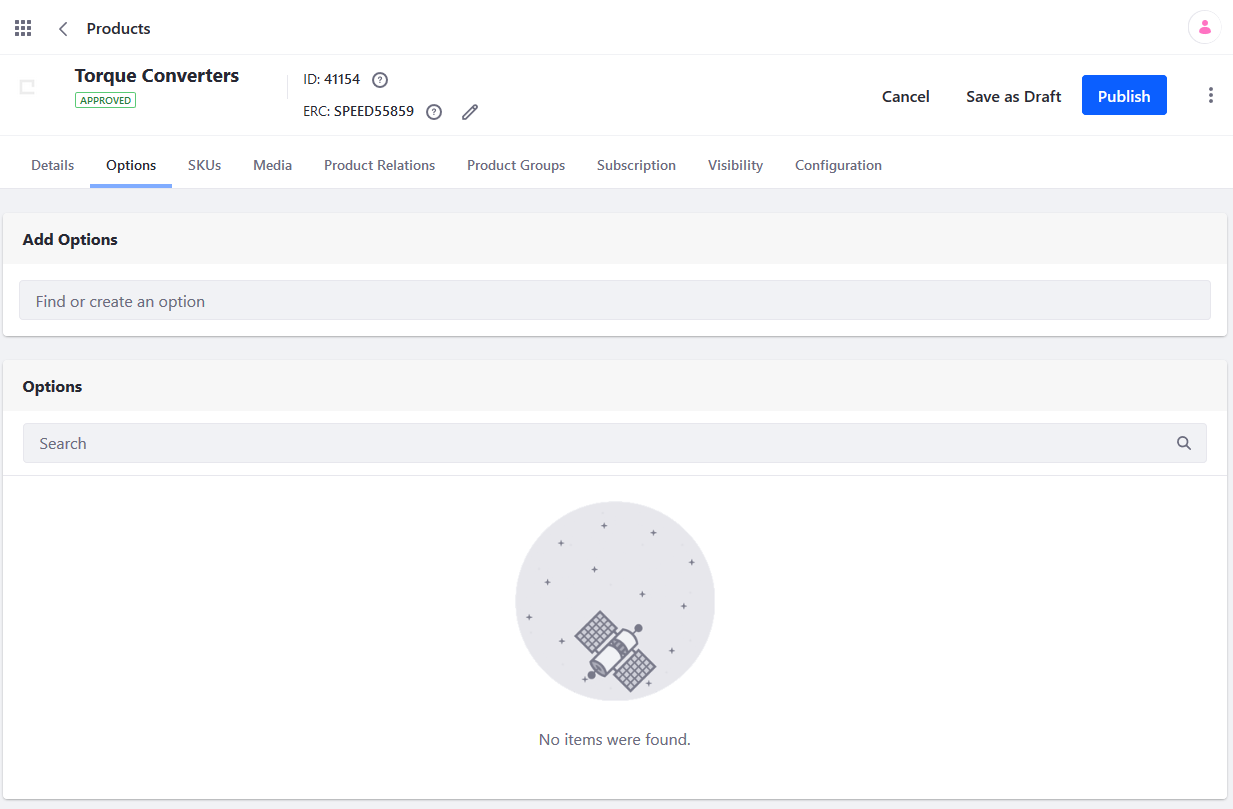
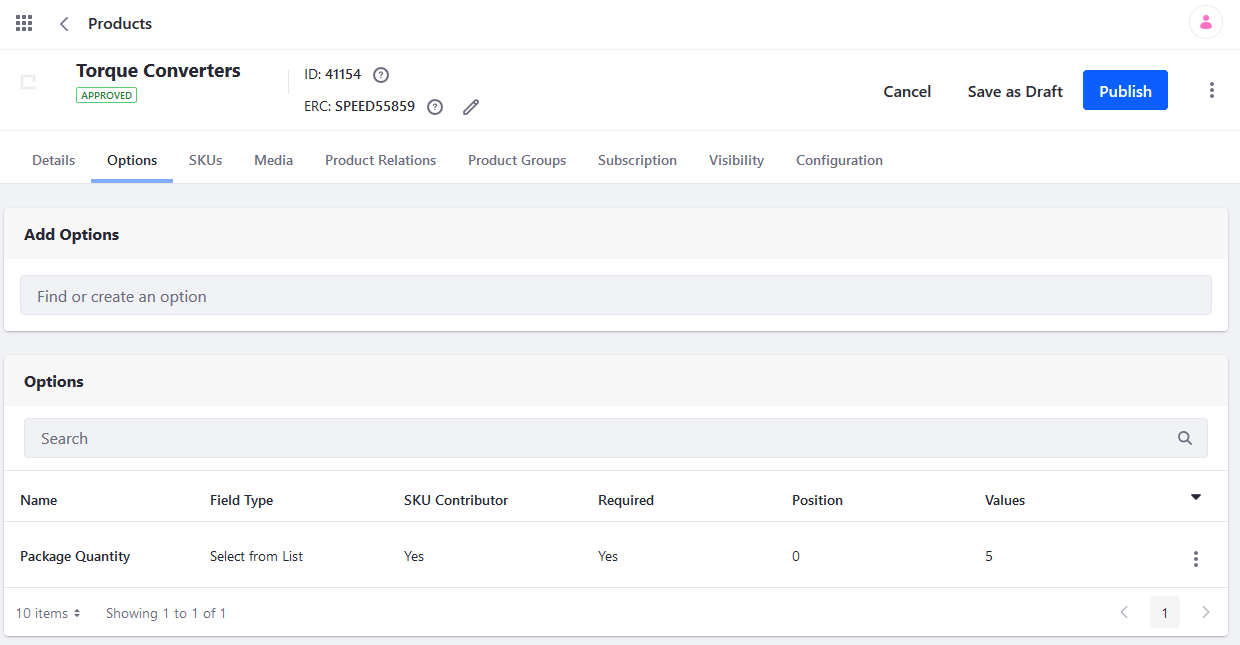
LRDOCS-9184 fixes old images for Product Options article

diff --git a/docs/commerce/2.x/en/managing-a-catalog/creating-and-managing-products/products/customizing-your-product-with-product-options.md b/docs/commerce/2.x/en/managing-a-catalog/creating-and-managing-products/products/customizing-your-product-with-product-options.md
@@ -125,7 +125,7 @@ Once an Option is applied to a Product, you can access additional configuration 
 ```
 
 ## Commerce 2.1 and Below
-<!-- FIX IMAGES -->
+
 ### Creating an Option Template
 
 To create an option template:
@@ -142,7 +142,7 @@ To create an option template:
     * **SKU Contributor:** No
     * **Key**: (automatically generated)
 
-        ![Option Template](./customizing-your-product-with-product-options/images/01.png)
+        ![Option Template](./customizing-your-product-with-product-options/images/06.png)
 
 1. Click _Save_.
 
@@ -169,7 +169,7 @@ To add multiple Option Values:
     * **Priority:** 1.0
     * **Key:** (autogenerated from the _Name_ field)
 
-        ![Adding option values](./customizing-your-product-with-product-options/images/02.png)
+        ![Adding option values](./customizing-your-product-with-product-options/images/07.png)
 
 1. Click _Save_.
 
@@ -184,19 +184,19 @@ To apply an option template to a product:
 1. Go to the _Global Applications_ → _Commerce_ → _Products_.
 1. Click on any product listed there. For example, if the Minium accelerator was used to create the site, one sample product is the _Torque Converters_.
 
-    ![Select a product to add a Product Option.](./customizing-your-product-with-product-options/images/03.png)
+    ![Select a product to add a Product Option.](./customizing-your-product-with-product-options/images/08.png)
 
 1. Click _Torque Converters_.
 1. Click the _Options_ tab.
 
-    ![Click the Options tab.](./customizing-your-product-with-product-options/images/07.png)
+    ![Click the Options tab.](./customizing-your-product-with-product-options/images/09.png)
 
 1. Search for an Option (for example _Quantity_).
 1. Click _Select_ next to _Package Quantity_.
 
 The Option Template is now applied; when the product is displayed on the catalog page, buyers may now select different quantities for Torque Converters.
 
-![The Quantity option has been added to Torque Converters.](./customizing-your-product-with-product-options/images/08.png)
+![The Quantity option has been added to Torque Converters.](./customizing-your-product-with-product-options/images/10.png)
 
 ## Additional Information
 
@@ -210,6 +210,6 @@ Note that you can apply more than one option template per product and each optio
     * **Key:** (autogenerated)
 4. Click _Save_.
 
-    ![Add values to the Product Option.](./customizing-your-product-with-product-options/images/06.png)
+    ![Add values to the Product Option.](./customizing-your-product-with-product-options/images/11.png)
 
 The new option has been added to the possible quantities a buyer can choose from.
